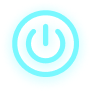
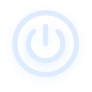
ui fix due to new design

Changed region(s): [[0.1304, 0.1087, 0.8696, 0.8478], [0.2609, 0.3043, 0.7174, 0.6957], [0.4565, 0.2609, 0.5435, 0.5]]

diff --git a/daemon/src/pages/Home/index.tsx b/daemon/src/pages/Home/index.tsx
@@ -8,7 +8,7 @@ import { getAllRegions, getServerIpAddress, startSilentPass } from "../../api";
 
 const Home = () => {
   const { sRegion, setSRegion, setAllRegions, allRegions } = useDaemonContext();
-  const [serverIpAddress, setServerIpAddress] = useState<string>('')
+  const [serverIpAddress, setServerIpAddress] = useState<string>("");
   const [power, setPower] = useState<boolean>(false);
   const navigate = useNavigate();
 
@@ -17,13 +17,17 @@ const Home = () => {
       const response = await getAllRegions();
       const tmpRegions = response.data;
 
-      const treatedRegions = Array.from(new Set(tmpRegions.map((region: string) => {
-        const separatedRegion = region.split(".");
-        const code = separatedRegion[1];
-        const country = mappedCountryCodes[code];
+      const treatedRegions = Array.from(
+        new Set(
+          tmpRegions.map((region: string) => {
+            const separatedRegion = region.split(".");
+            const code = separatedRegion[1];
+            const country = mappedCountryCodes[code];
 
-        return JSON.stringify({ code, country }); // Convert the object to a string for Set comparison
-      }))).map((regionStr: any) => JSON.parse(regionStr)); // Convert the string back to an object
+            return JSON.stringify({ code, country }); // Convert the object to a string for Set comparison
+          })
+        )
+      ).map((regionStr: any) => JSON.parse(regionStr)); // Convert the string back to an object
 
       setAllRegions(treatedRegions);
     };
@@ -35,33 +39,33 @@ const Home = () => {
       setServerIpAddress(tmpIpAddress?.ip);
     };
 
-    _getAllRegions()
-    _getServerIpAddress()
+    _getAllRegions();
+    _getServerIpAddress();
   }, []);
 
   const handleTogglePower = async () => {
-    let selectedCountryIndex = -1
+    let selectedCountryIndex = -1;
 
     if (power) {
       setPower(false);
-      return
+      return;
     }
 
     try {
       if (sRegion === -1) {
-        selectedCountryIndex = Math.floor(Math.random() * allRegions.length)
+        selectedCountryIndex = Math.floor(Math.random() * allRegions.length);
         setSRegion(selectedCountryIndex);
       } else {
-        selectedCountryIndex = sRegion
+        selectedCountryIndex = sRegion;
       }
 
-      const selectedCountryCode = allRegions[selectedCountryIndex].code
+      const selectedCountryCode = allRegions[selectedCountryIndex].code;
 
-      console.log(selectedCountryCode)
+      console.log(selectedCountryCode);
 
-      await startSilentPass(selectedCountryCode)
+      await startSilentPass(selectedCountryCode);
       setPower(true);
-      return
+      return;
     } catch (error) {
       setPower(false);
     }
@@ -74,15 +78,16 @@ const Home = () => {
       </h1>
       {power ? (
         <p className="connection">
-          Your connection is <span>protected!</span>
+          <span style={{ color: "#E4E2E4" }}>Your connection </span>
+          <span style={{ color: "#9FBFE5" }}>is protected!</span>
         </p>
       ) : (
-        <p className="connection">Your connection is not protected!</p>
+        <p className="connection">
+          <span style={{ color: "#E4E2E4" }}>Your connection </span>
+          <span style={{ color: "#F9DEDC" }}>is not protected!</span>
+        </p>
       )}
-      <button
-        className="power"
-        onClick={handleTogglePower}
-      >
+      <button className="power" onClick={handleTogglePower}>
         {power ? (
           <img src="/assets/power.png" width={83} height={85} alt="" />
         ) : (
@@ -143,23 +148,53 @@ const Home = () => {
               }}
             />
             {allRegions[sRegion].country}
-
           </div>
 
-          <div style={{ display: "flex", flexDirection: "column", gap: '20px', backgroundColor: '#1B1B1D', borderRadius: '16px', padding: '20px', width: 300, fontSize: '14px' }}>
-            <div style={{ display: "flex", flexDirection: "column", gap: '4px' }}>
-              <div style={{ display: "flex", flexDirection: "row", justifyContent: "space-between" }}>
+          <div
+            style={{
+              display: "flex",
+              flexDirection: "column",
+              gap: "20px",
+              backgroundColor: "#1B1B1D",
+              borderRadius: "16px",
+              padding: "20px",
+              width: 300,
+              fontSize: "14px",
+            }}
+          >
+            <div
+              style={{ display: "flex", flexDirection: "column", gap: "4px" }}
+            >
+              <div
+                style={{
+                  display: "flex",
+                  flexDirection: "row",
+                  justifyContent: "space-between",
+                }}
+              >
                 <div>Socks 5 Address:</div>
-                <div style={{ color: '#B1B1B2' }}>{serverIpAddress}</div>
+                <div style={{ color: "#B1B1B2" }}>{serverIpAddress}</div>
               </div>
 
-              <div style={{ display: "flex", flexDirection: "row", justifyContent: 'space-between' }}>
+              <div
+                style={{
+                  display: "flex",
+                  flexDirection: "row",
+                  justifyContent: "space-between",
+                }}
+              >
                 <div>Port: </div>
-                <div style={{ color: '#B1B1B2' }}>3002</div>
+                <div style={{ color: "#B1B1B2" }}>3002</div>
               </div>
             </div>
 
-            <div style={{ display: "flex", flexDirection: "row", justifyContent: 'space-between' }}>
+            <div
+              style={{
+                display: "flex",
+                flexDirection: "row",
+                justifyContent: "space-between",
+              }}
+            >
               <div>PAC URL:</div>
               <div>{"http://" + serverIpAddress + "/pac"}</div>
             </div>
@@ -174,6 +209,8 @@ const Home = () => {
           <img src="/assets/right.png" width={4} height={8} alt="" />
         </button>
       )}
+
+      <p className="footer">© 2024 CoNET.network. All rights reserved</p>
     </div>
   );
 };

diff --git a/daemon/src/pages/Regions/index.tsx b/daemon/src/pages/Regions/index.tsx
@@ -3,6 +3,8 @@ import "./index.css";
 import { useDaemonContext } from "../../providers/DaemonProvider";
 import { useNavigate } from "react-router-dom";
 
+// import countryIcon from "/assets/";
+
 const Region = () => {
   const { setSRegion, allRegions } = useDaemonContext();
   const navigate = useNavigate();
@@ -19,13 +21,21 @@ const Region = () => {
 
   return (
     <div className="regions">
-      <div style={{ marginRight: '80px' }}>
-        <div style={{ display: 'flex', flexDirection: 'row', gap: '16px', cursor: 'pointer' }} onClick={() => navigate("/")}>
+      <div style={{ marginRight: "80px" }}>
+        <div
+          style={{
+            display: "flex",
+            flexDirection: "row",
+            gap: "16px",
+            cursor: "pointer",
+          }}
+          onClick={() => navigate("/")}
+        >
           <button className="back">
             <img src="/assets/left.png" />
           </button>
 
-          <h1 style={{ paddingBottom: '10px' }}>Select Region</h1>
+          <h1 style={{ paddingBottom: "10px" }}>Select Region</h1>
         </div>
       </div>
 
@@ -37,12 +47,31 @@ const Region = () => {
               Auto Select
             </div>
           </button>
-          <div style={{ display: "flex", flexDirection: 'column', gap: '12px', width: '100%', alignItems: 'center' }}>
+          <div
+            style={{
+              display: "flex",
+              flexDirection: "column",
+              gap: "12px",
+              width: "100%",
+              alignItems: "center",
+            }}
+          >
             <p className="location">Locations</p>
-            <div style={{ display: "flex", flexDirection: 'column', gap: '20px', width: '80%', alignItems: 'center' }}>
+            <div
+              style={{
+                display: "flex",
+                flexDirection: "column",
+                gap: "20px",
+                width: "80%",
+                alignItems: "center",
+              }}
+            >
               {allRegions.map((region, index) => {
                 return (
-                  <button style={{ margin: 0 }} onClick={() => handleRegion(index)}>
+                  <button
+                    style={{ margin: 0 }}
+                    onClick={() => handleRegion(index)}
+                  >
                     <div>
                       <ReactCountryFlag
                         countryCode={region.code}
@@ -57,11 +86,7 @@ const Region = () => {
                         <p>{region.country}</p>
                       </div>
                     </div>
-                    <p className="status">
-                      <span></span>
-                      <span></span>
-                      <span></span>
-                    </p>
+                    <img src="/assets/country_icon.svg" alt="country-icon" />
                   </button>
                 );
               })}

diff --git a/daemon/src/pages/Regions/index.css b/daemon/src/pages/Regions/index.css
@@ -26,12 +26,12 @@
 }
 
 ::-webkit-scrollbar-thumb {
-  background: #8da8ff;
+  background: #9fbfe5fe;
   border-radius: 10px;
 }
 
 ::-webkit-scrollbar-thumb:hover {
-  background: #8da8ff;
+  background: #9fbfe5fe;
 }
 
 .areas {
@@ -44,9 +44,9 @@
 }
 
 .areas button.auto {
-  background-image: linear-gradient(90deg, #8d4be1, #577dff);
+  background-color: #191919;
+  border: 1px solid #3f3f40;
   height: 80px;
-  border: none;
   margin: 0;
 }
 
@@ -62,7 +62,7 @@
   padding: 0 20px;
   cursor: pointer;
   background-color: #191919;
-  border: 1px solid #f6f1f2;
+  border: 1px solid #3f3f40;
   margin: 0 10px;
 }
 

diff --git a/daemon/src/pages/Home/index.css b/daemon/src/pages/Home/index.css
@@ -7,7 +7,7 @@
 }
 
 h1 span {
-  color: #8da8ff;
+  color: #9fbfe5fe;
 }
 
 .title {
@@ -49,7 +49,7 @@ h1 span {
 }
 
 .connected {
-  color: #79f8ff;
+  color: #deecfdfe;
 }
 
 .auto-btn {
@@ -110,4 +110,9 @@ h1 span {
 
 p {
   text-align: center !important;
+}
+
+.footer {
+  font-size: 11px;
+  color: #989899;
 }
